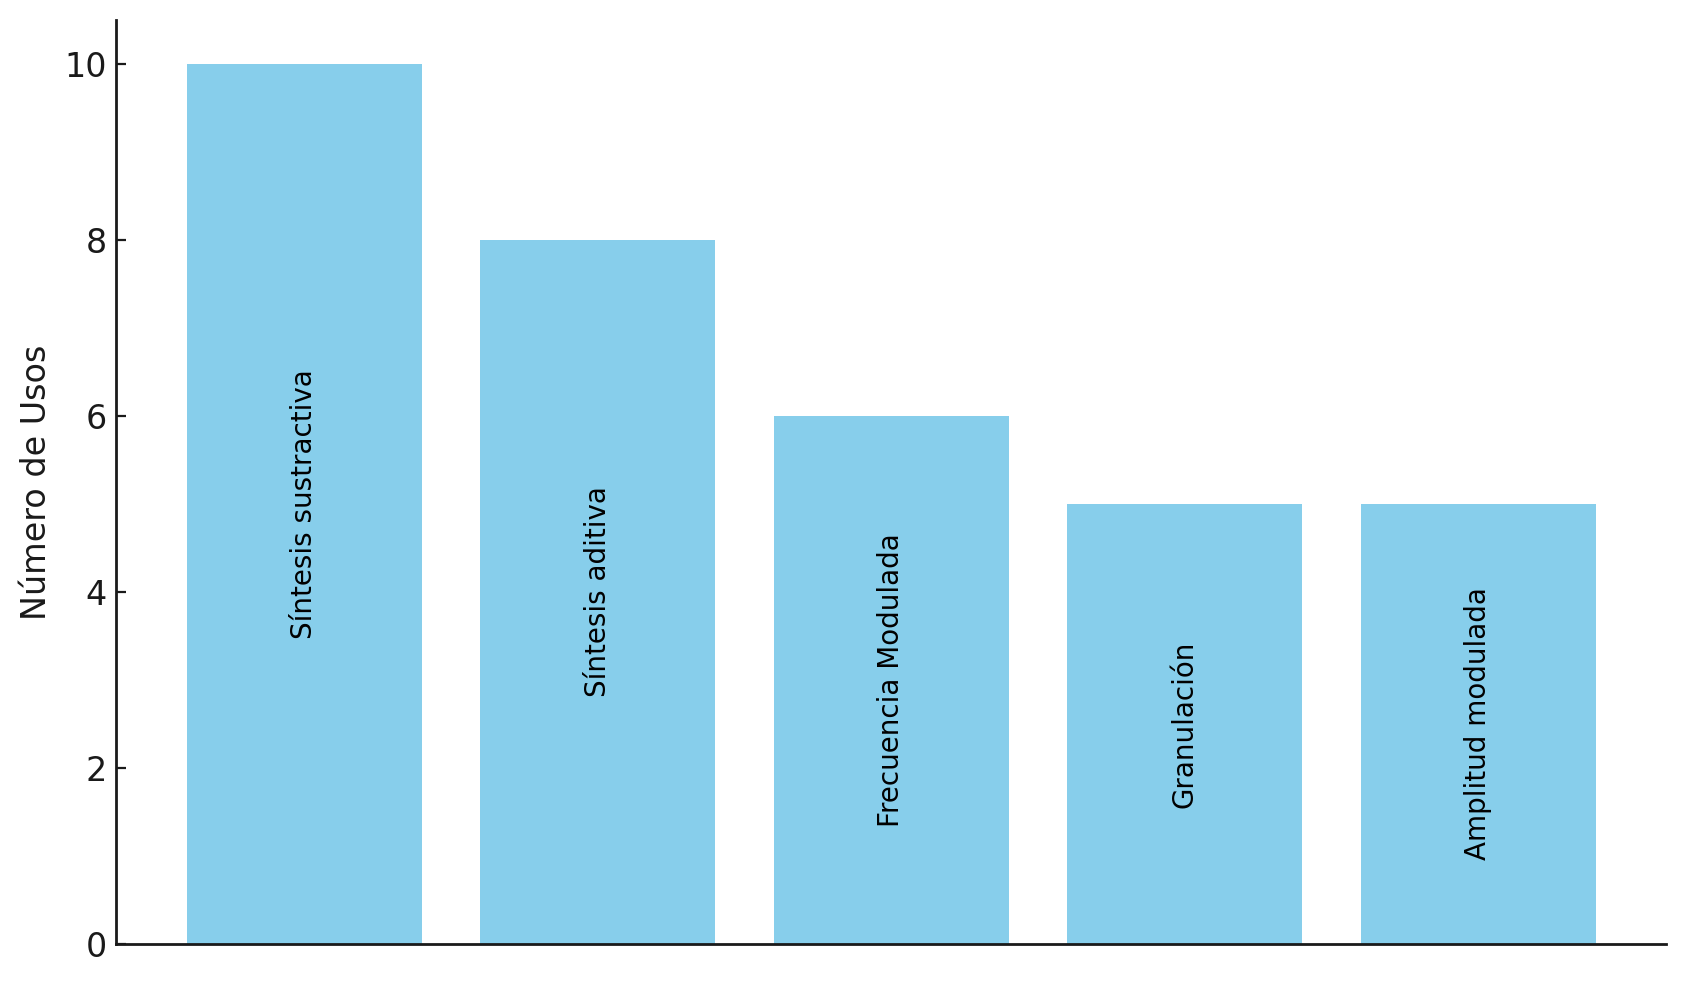
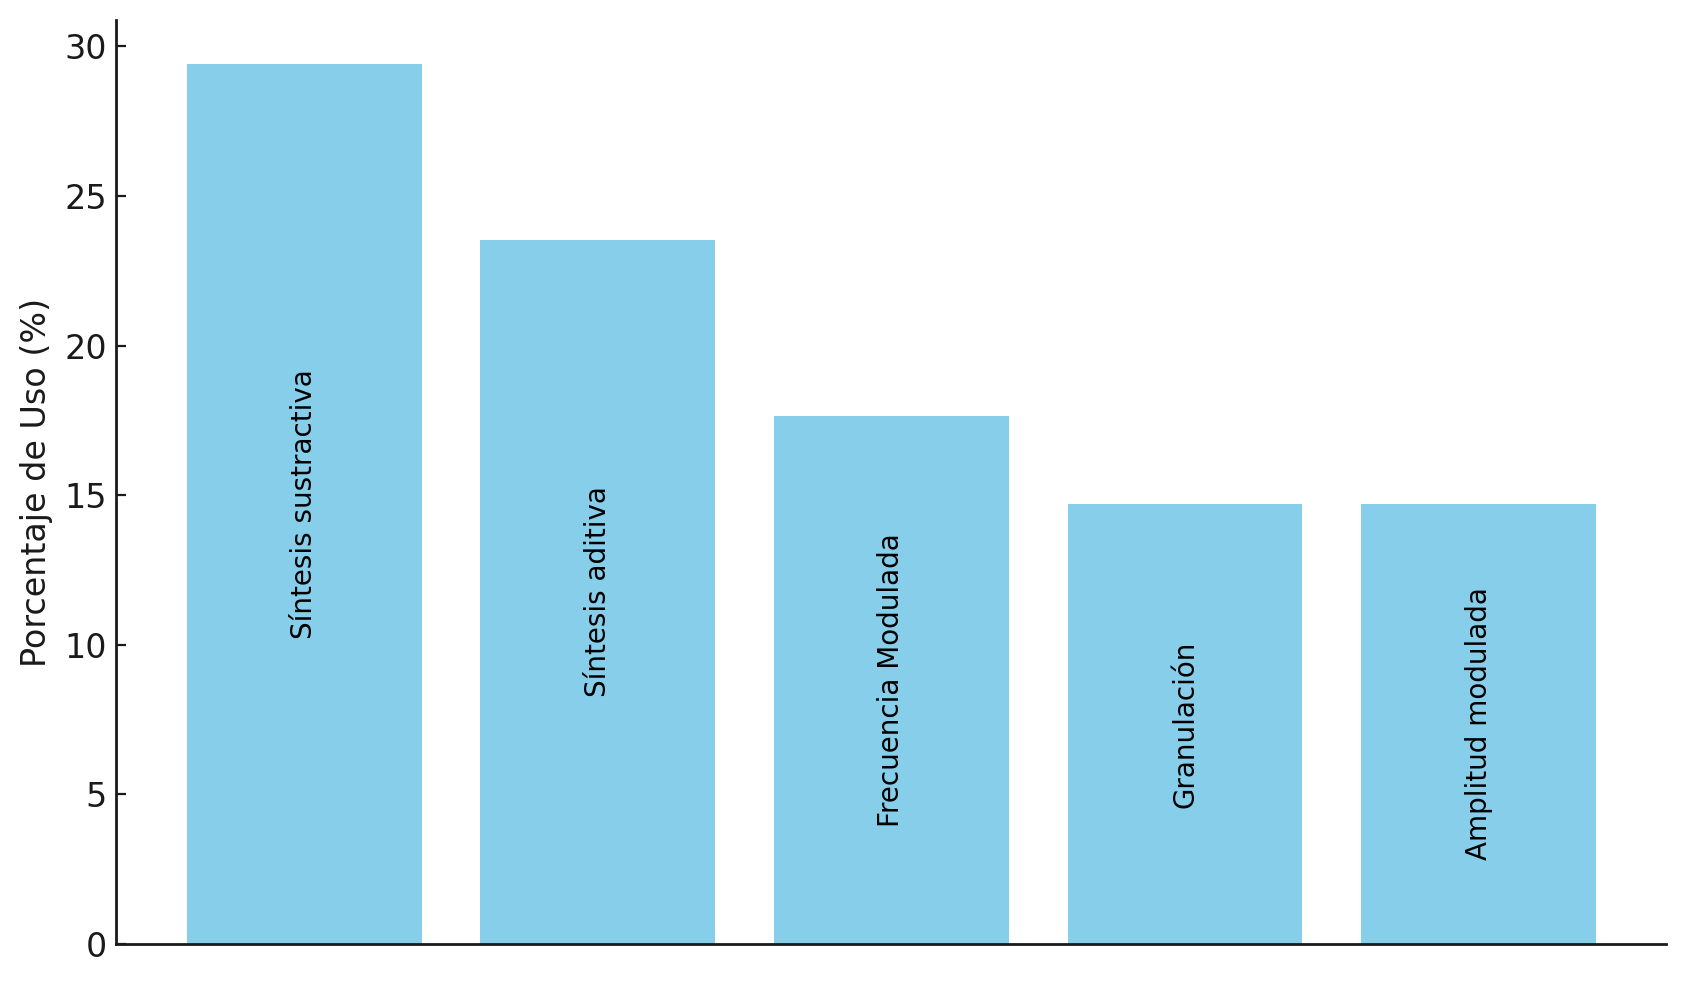
avances sobre la pieza. Segunda versión de gráfica de síntesis

diff --git a/TFM/LaTeX/capitulos/composicion_arte_sonoro_GPT4.tex b/TFM/LaTeX/capitulos/composicion_arte_sonoro_GPT4.tex
@@ -1,6 +1,6 @@
 \chapter{Hacia un ejemplo de arte sonoro generado con ayuda de GPT-4}
 
-Como consecuencia de las pruebas y experimentos realizados con la API y el Playground de OpenAI, se generaron decenas de archivos con código cuyo resultado sonoro fue juzgado de cierto interés, independientemente de su adecuación a los requerimentos pasados por el prompt. Estos bloques de código están escritos tanto en SuperCollider como en Tidal Cycles. En el primer caso responden a peticiones muy concretas de texturas, timbres o sucesiones sonoras, en el Playground; en el segundo, a sesiones de \textit{livecoding} compartidas, asistidas por la API en \textit{AlgorAI}.
+Como consecuencia de las pruebas y experimentos realizados con la API y el Playground de OpenAI para este trabajo, se generaron decenas de archivos con código cuyo resultado sonoro fue juzgado de cierto interés, independientemente de su adecuación a los requerimentos pasados por el prompt. Estos bloques de código están escritos tanto en SuperCollider como en Tidal Cycles. En el primer caso responden a peticiones muy concretas de texturas, timbres o sucesiones sonoras, en el Playground; en el segundo, a sesiones de \textit{livecoding} compartidas, asistidas por la API en \textit{AlgorAI}.
 
 Ninguna de las construcciones de código conseguidas responden a un plan de una pieza completa, sino, más bien, a texturas sonoras continuas o con pocas variaciones en el tiempo. Por esta razón, el planteamiento de composición de una pieza a partir de estos materiales ha sido organizado absolutamente por el compositor-investigador. En este caso, se ha optado por organizar los sonidos elegidos en la DAW (\textit{Digital Audio Workstation}) \textit{Ardour}. Los procesados y efectos aplicados han sido mínimos, con el fin de mantener la esencia de los sonidos generados por GPT-4, limitándose a filtrados, cortes y compensación dinámica entre elementos. La Figura \ref{fig:ardour} muestra la organización de los sonidos en la DAW.
 
@@ -18,9 +18,13 @@ La selección de los fragmentos de código a utilizar en la composición se real
 
 En el momento de la selección, se intentó encontrar una estructura base esquemática con la ayuda de GPT-4, pero siempre aparecían problemas asociados al entendimiento de los procesos en el tiempo por parte del LLM. Todas las soluciones eran extremadamente simples en el mejor de los casos, o bien lejos de lo que se pretendía, una composición temporal a partir de samples, en el peor y la mayoría de los casos. Por esta razón, se optó por la intervención humana absoluta en el proceso de composición, relegando el papel de GPT-4 a la generación de material sonoro.
 
+\section{Descripción de la pieza}
+
+\textit{AlgorAI}\footnote{La pieza puede ser escuchada en este enlace de Soundcloud: \qrcode[height=2cm]{https://on.soundcloud.com/mQaQM}} es una obra de música electroacústica. Su duración es de 5 minutos y está compuesta de un único movimiento, sin secciones claramente delimitadas. Su trama está compuesta por una sucesión polifónica de texturas sonoras de diversa índole, que se van superponiendo y combinando entre sí. Las decisiones de posición, duración y altura de cada sonido han sido tomadas en conjunto por el propio compositor, atendiendo a criterios subjetivos de equilibrio, coherencia e inteligilibilidad desde el punto de vista psicoacústico. Su título, \textit{AlgorAI}, es un acrónimo de \textit{Algoritmo} e \textit{Inteligencia Artificial}, y hace referencia a la naturaleza de la obra, cuya materia prima sonora ha sido compuesta a partir de algoritmos de IA, en concreto, por grandes modelos de lenguaje. Los materiales sonoros son en su mayoría de origen íntegramente electrónico (aquellos producidos a través de SuperCollider), y en menor medida, de origen electroacústico (los producidos por Tidal Cycles), cuando la base de los mismos es un conjunto de samples de sonidos reales.
+
 \section{Técnicas de síntesis sonora utilizadas en los materiales sonoros}
 
-Frecuencia Modulada, síntesis sustractiva y síntesis por granulación son las técnicas de síntesis sonora más utilizadas por GPT-4 en los experimentos en lo que la utilización del lenguaje de SuperCollider se refiere, independientemente de la petición en los prompts. La Figura \ref{fig:grafica_sintesis_gpt4} muestra la distribución de las técnicas de síntesis sonora utilizadas en los materiales sonoros generados por GPT-4 en SuperCollider en los fragmentos de código que han servido como base de la composición.
+Síntesis sustractiva, síntesis aditiva, frecuencia modulada, granulación y amplitud modulada son, en ese orden, las técnicas de síntesis sonora más utilizadas por GPT-4 en los experimentos en lo que la utilización del lenguaje de SuperCollider se refiere, independientemente de la petición en los prompts. La Figura \ref{fig:grafica_sintesis_gpt4} muestra esta distribución de uso de las técnicas de síntesis sonora utilizadas en los fragmentos de código que han servido como base de la composición. Se aprecia una prevalencia de la síntesis sustractiva, aquella que consiste en filtrar armónicos de un sonido complejo, generalmente ruido blanco o clicks, para obtener sonidos complejos y ricos en matices.
 
 \begin{figure}[H]
     \caption[Gráfica de barras con la distribución de las técnicas de síntesis sonora utilizadas en los materiales sonoros generados por GPT-4 en SuperCollider]{Gráfica de barras con la distribución de las técnicas de síntesis sonora utilizadas en los materiales sonoros utilizados en la composición de \textit{AlgorAI}, generados por GPT-4 en SuperCollider.}
@@ -30,13 +34,38 @@ Frecuencia Modulada, síntesis sustractiva y síntesis por granulación son las 
     \label{fig:grafica_sintesis_gpt4}
 \end{figure}
 
+Una significativa parte de los materiales sonoros, a pesar de estar generados aparentemente por una técnica definida, en realidad deben su sonido más bien a combinaciones casuales y complejas, más fruto del azar que de la intención. Esto es común cuando los diversos parámetros de un sistema son llevados al extremo y producto sonoro es fruto de artefactos digitales como saturaciones, \textit{aliasing}, etc. Este aspecto de serendipia e impredecibilidad en la utilización de modelos de lenguaje aplicados a lo sonoro no es desdeñable, ya que puede ser una fuente de inspiración para el compositor.
+
+Se aprecia una naturaleza distinta en los materiales generados en el lenguaje de Tidal Cycles, ya que este lenguaje se basa en la manipulación de samples y en su secuenciación en el tiempo. Los bucles más complejos que se aprecian en \textit{AlgorAI} han sido producidos por GPT-4 en Tidal Cycles. En este caso, se han escogido siempre los bucles sonoros más impredecibles, aquellos que no se ajustan a una estructura rítmica regular. La Figura \ref{fig:ejemplo_tidal_irregular} muestra uno de los ejemplos escritos en Tidal Cycles escogidos para la composición por su carácter irregular.
 
 
-% Crear una gráfica de barras con la distribución de las técnicas de síntesis sonora utilizadas en los materiales sonoros generados por GPT-4 en SuperCollider y guardados como materiales de interés.
-
-Una naturaleza distinta se aprecia en los materiales generados en el lenguaje de Tidal Cycles, ya que este lenguaje se basa en la manipulación de samples y en su secuenciación en el tiempo. 
-
-Una significativa parte de los materiales sonoros están generados sin una técnica de síntesis particular, y su resultado sonoro responde más bien a combinaciones casuales y complejas, más fruto del azar que de la intención. Este aspecto de serendipia en la utilización de modelos de lenguaje no es desdeñable, ya que puede ser una fuente de inspiración para el compositor.
+\begin{figure}[H]
+    \caption[Ejemplo de código en Tidal Cycles escogido para la composición por su carácter irregular.]{Ejemplo de código en Tidal Cycles escogido para la composición por su carácter irregular.}
+    \centering
+    \begin{lstlisting}[style=SuperCollider-IDE, basicstyle=\footnotesize\ttfamily, numbers=none]
+// Crear una función para el sonido modelado físicamente
+d1 
+    $ degradeBy 0.1
+    $ slow 10 
+    $ n (struct "[t(3,8)]*3 t(5,6) [t(6,7)]*4 t(3,4) t(2,3) t(7,8)"
+        $ slow 3 
+        $ ((fast 3 sine * rand) * (1-(fast 5 tri)) * (1-(fast 45 tri * rand))) *20) 
+            # s "[[rash, cpu] | cpu2 | numbers | [arpy, <hi lo snare>] | [superpiano, [alphabet clap]?]]" 
+            -- # s (choose["[rash, cpu]" , "[cpu2, hc]" ,"numbers" ," [arpy, <hi lo snare>]" , "[superpiano, [alphabet clap]?]"])
+            # speed (slow 7 $ sine*1+0.05) 
+            # legato 10
+            # squiz (slow 20 $ sine*5)
+            # room 1
+            # size 0.8
+            # delay 0.8
+            # delaytime (choose [0.1, 0.5, 1])
+            # delayfb 0.8
+            # pan (range 0 1 rand)
+            # vowel (slow 2.7 "{u o i e a i u a, a e i o u o}")
+    \end{lstlisting}
+    \source{Elaboración propia.}
+    \label{fig:ejemplo_tidal_irregular}
+\end{figure}
 
 \section{Interacción humano-LLM en el proceso de composición}
 
@@ -45,6 +74,4 @@ En este proceso compositivo, cabe preguntarse si la utilización de materiales s
 Sin embargo, no se puede considerar indiferente la utilización de materiales sonoros generados por IA en el proceso compositivo. En primer lugar, la utilización de estos materiales ha permitido al compositor-investigador explorar nuevas texturas y timbres que, de otro modo, no hubiera podido crear. El artista sonoro suele buscar sus materiales sonoros a modo de exploración, bien del mundo real, con micrófonos, bien del mundo electrónico o digital, experimentando con sintetizadores, secuenciadores y todo tipo de software de generación sonora. En este caso, la exporación realizada por medio de modelos de lenguaje en código de programación ha permitido al compositor-investigador dar con materiales que por sí mismo no hubiera podido crear, no por falta de conocimientos o habilidades, sino porque las posibilidades de combinación de elementos generadores es infinita, por una parte, y el creador humano tiende a repetir patrones y estructuras que le son familirares o que han resultado exitosas en el pasado, por otra.
 
 En todo caso, es notable el ahorro de trabajo que ha supuesto el hecho de que el LLM haya generado los materiales sonoros. El tiempo necesario para ello se ha reducido con creces respecto a la creación de los mismos por parte del compositor. Podría objetarse que esto significa la pérdida del poder de control del artista sobre su obra, pero esto no es necesariamente cierto. La actitud del compositor humano frente al manejo del LLM por sus diferentes interfaces ha sido la de búsqueda y selección constante. Los archivos con código de los cuales se han elegido ciertos bloques para la composición puede que no lleguen a una tercera parte de todos los desechados en el proceso experimental. Los guardados como interesantes, a su vez, fueron el producto de varias iteraciones en el diálogo con el modelo. No se ha aprecidado diferencia significativa en la calidad de la composición derivada de que el origen de los materiales sea la IA o producto de otras técnicas de exploración sonora. En todo caso, al tratarse de música experimental, la búsqueda de materiales ajenos a la intención del compositor es una constante, y la utilización de modelos de lenguaje en código de programación sonora se presenta como una herramienta más en el proceso de exploración sonora.
-
-\section{Descripción de la pieza}
 
